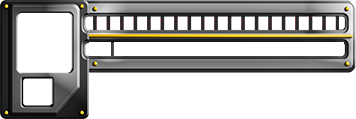
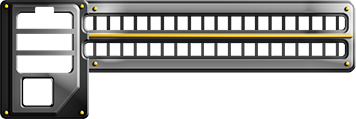
hud updated

diff --git a/script/class/player.js b/script/class/player.js
@@ -89,21 +89,11 @@ Player.prototype = {
 	}
 };
 
-var PlayerHUD = function(player, x, y) {
+var PlayerHUD = function(player, posX, posY) {
 	this.player = player;
-	this.x = x;
-	this.y = y;
-
-	//player lives
-	this.playerIcon = game.add.sprite(this.x,this.y,'playerIcon');
-	this.xIcon1 = game.add.sprite(this.x + 40, this.y + 5, 'number');
-	this.xIcon1.frame = 10;
-	this.hpCount = game.add.sprite(this.x + 60, this.y + 5, 'number');
-	this.hpCount.frame = this.player.HP;
-	
 	
 	// This section is for new HUD
-	this.hubBackgroundData = {x: this.x, y: this.y + 200, originWidth: 356}
+	this.hubBackgroundData = {x: posX, y: posY, originWidth: 356}
 	this.scale = this.hubBackgroundData.originWidth / 237;
 	this.maxHP = this.player.HP;
 	//HP bar
@@ -128,24 +118,12 @@ var PlayerHUD = function(player, x, y) {
 
 
 	this.hubBackground = game.add.sprite(this.hubBackgroundData.x, this.hubBackgroundData.y, 'hubBG')
+
+	//text
 	this.bulletText = game.add.text(this.bulletbarData.x + this.bulletbarData.originWidth/2, this.bulletbarData.y + 6, 'LEVEL 1', { font: '16px Arial Bold', fill: '#fff' });
 	this.bulletText.anchor.set(0.5);
-
-	
-
-	//player level
-	this.playerLevel = game.add.text(this.x, this.y + 30, 'M.Bullet Level:', { font: '16px Arial', fill: '#fff' });
-	this.levelText = game.add.text(this.x + 120, this.y + 28, '1 (0/4)', { font: '18px Arial Bold', fill: '#fff' });
-
-	//sub bullet time
-	this.subBulletTime = game.add.text(this.x, this.y + 50, 'S.Bullet Time:', { font: '16px Arial', fill: '#fff' });
-	this.timeText = game.add.text(this.x + 120, this.y + 48, '0s', { font: '18px Arial Bold', fill: '#fff' });
-	
-	
-
-	//power
-	this.power = game.add.text(this.x, this.y + 70, 'Skill Recharged: ', { font: '16px Arial', fill: '#fff' });
-	this.powerText = game.add.text(this.x + 120, this.y + 70, '0%', { font: '18px Arial Bold', fill: '#fff' });
+	this.timeText = game.add.text(this.hubBackgroundData.x + 38, this.hubBackgroundData.y + 92, '0s', { font: '18px Arial Bold', fill: '#fff' });
+	this.timeText.anchor.set(0.5);
 };
 
 PlayerHUD.prototype = {
@@ -153,7 +131,6 @@ PlayerHUD.prototype = {
 	constructor: PlayerHUD,
 
 	updateHP: function(){
-		this.hpCount.frame = this.player.HP;
 		if (this.hpbarData.originWidth * this.player.HP / this.maxHP < 0)
 			this.hpbar.width = 0;
 		else
@@ -162,12 +139,8 @@ PlayerHUD.prototype = {
 
 	updateLevel: function(){
 		if (this.player.level < 5) {
-			this.levelText.text = this.player.level + ' (' + this.player.numOfPowerUpCollected.temp + '/' + Math.pow(2, this.player.level+1) + ')';
 			this.bulletbar.width = this.bulletbarData.originWidth * this.player.numOfPowerUpCollected.total / 60;
 			this.bulletText.text = 'LEVEL ' + this.player.level;
-		}
-		else {
-			this.levelText.text = '5 (MAXED)';
 		}
 	},
 
@@ -183,8 +156,6 @@ PlayerHUD.prototype = {
 	},
 	
 	updatePower: function() {
-		this.powerText.text = this.player.power + '%';
 		
-
 	}
 };
